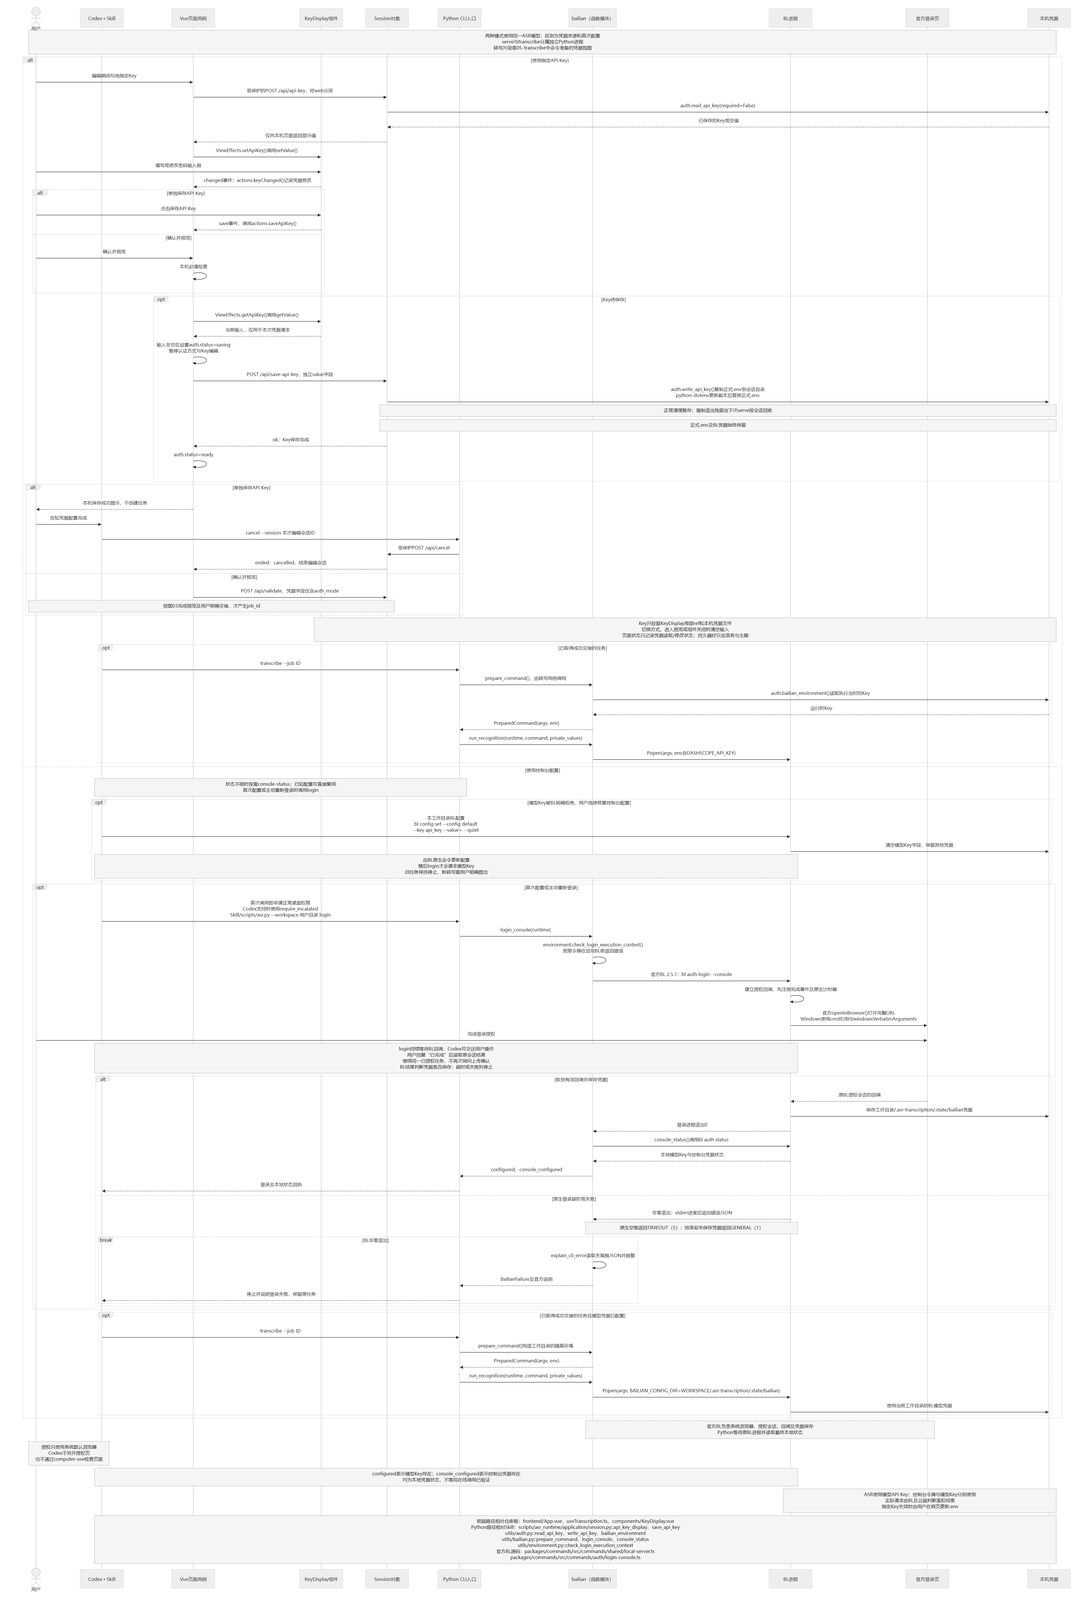
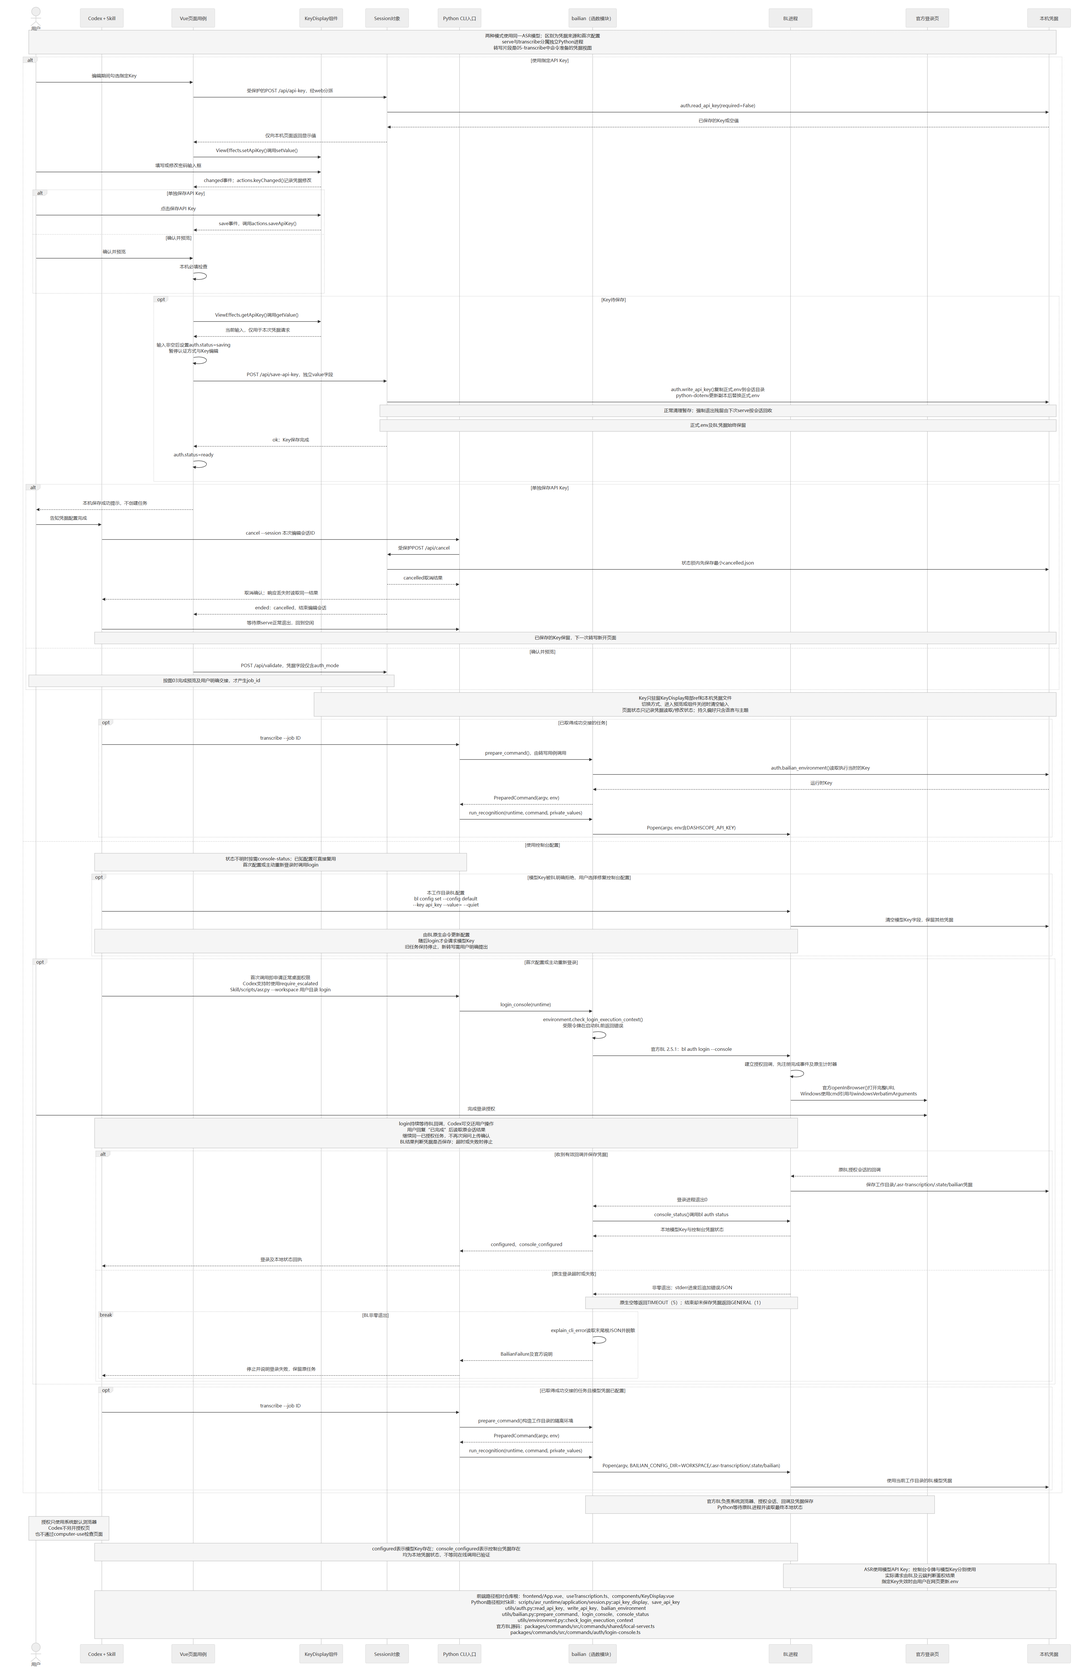
fix: finish editing before cancellation or skill updates

diff --git a/tests/test_browser.ts b/tests/test_browser.ts
@@ -669,7 +669,8 @@ for (const audioName of ["附件 recording.wav", "missing.wav"]) {
       else assert.equal(await page.locator(".audio-name").innerText(), audioName);
       const select = page.locator("#audio_id").getByRole("button", { name: initial.audio ? "Replace recording" : "Choose a recording", exact: true });
       await select.click();
-      await page.locator("#audio_id .el-tag--success").waitFor();
+      // 更换录音时旧的选中标记仍可见，等待新文件名实际显示。
+      await page.locator(".audio-name").filter({ hasText: /^sample\.wav$/ }).waitFor();
       assert.equal(await page.locator(".audio-name").innerText(), "sample.wav");
       assert.equal(await page.locator("#audio_id .field-error").count(), 0);
       assert.equal(paths.filter(route => route === "/api/select-audio").length, 1);

diff --git a/skills/asr-transcription/scripts/asr_runtime/web.py b/skills/asr-transcription/scripts/asr_runtime/web.py
@@ -18,7 +18,7 @@ from urllib.parse import unquote, urlsplit
 from .utils.environment import Runtime, SetupError
 from .utils.hotwords import hotwords_template
 from .utils.i18n import language_scope, localize
-from .utils.session_files import read_connection, read_receipt, write_connection
+from .utils.session_files import read_connection, read_terminal, write_connection
 from .application.recovery import CleanupReport, finish_session, recover_workspace
 from .application.session import Session
 from .application.rules import ValidationError
@@ -270,36 +270,35 @@ def serve(runtime: Runtime, *, port: int = 0, open_browser: bool = True, audio: 
 
 def control_session(runtime: Runtime, session_id: str, action: Literal["confirm", "cancel"]) -> Mapping[str, object]:
     """按明确编辑会话编号请求交接或取消，并恢复已经持久保存的回执。"""
-    receipt = read_receipt(runtime, session_id)
-    if receipt is not None:
-        if action == "confirm":
-            return receipt
-        return {"state": "handed_off", "receipt": receipt}
-    connection = None
-    try:
-        connection_info = read_connection(runtime, session_id)
-        origin = f"http://127.0.0.1:{connection_info['port']}"
-        connection = http.client.HTTPConnection("127.0.0.1", connection_info["port"], timeout=15)
-        connection.request("POST", f"/api/{action}", body=b"{}", headers={
-            "Origin": origin, "Content-Type": "application/json", "X-ASR-Token": connection_info["token"],
-        })
-        response = connection.getresponse()
-        payload = json.loads(response.read().decode("utf-8"))
-        if response.status != 200 or not isinstance(payload, dict):
-            localized = payload.get("error") if isinstance(payload, dict) else None
-            message = localized.get("zh") if isinstance(localized, dict) else None
-            raise SetupError(message or "会话操作未完成，请检查当前配置页面。")
-        return payload
-    except (SetupError, OSError, http.client.HTTPException, ValueError) as exc:
-        # 交接已保存但HTTP响应丢失时，读取同一会话的回执即可恢复。
-        receipt = read_receipt(runtime, session_id)
-        if receipt is not None:
-            if action == "confirm":
-                return receipt
-            return {"state": "handed_off", "receipt": receipt}
-        if isinstance(exc, SetupError):
-            raise
-        raise SetupError("无法取得会话操作结果。请检查网页服务；重试确认时使用同一会话编号。") from exc
-    finally:
-        if connection is not None:
-            connection.close()
+    terminal = read_terminal(runtime, session_id)
+    if terminal is None:
+        connection = None
+        try:
+            connection_info = read_connection(runtime, session_id)
+            origin = f"http://127.0.0.1:{connection_info['port']}"
+            connection = http.client.HTTPConnection("127.0.0.1", connection_info["port"], timeout=15)
+            connection.request("POST", f"/api/{action}", body=b"{}", headers={
+                "Origin": origin, "Content-Type": "application/json", "X-ASR-Token": connection_info["token"],
+            })
+            response = connection.getresponse()
+            payload = json.loads(response.read().decode("utf-8"))
+            if response.status != 200 or not isinstance(payload, dict):
+                localized = payload.get("error") if isinstance(payload, dict) else None
+                message = localized.get("zh") if isinstance(localized, dict) else None
+                raise SetupError(message or "会话操作未完成，请检查当前配置页面。")
+            return payload
+        except (SetupError, OSError, http.client.HTTPException, ValueError) as exc:
+            # 已处理请求的HTTP响应可能丢失；只读取原结果，不重新发送操作。
+            terminal = read_terminal(runtime, session_id)
+            if terminal is None:
+                if isinstance(exc, SetupError):
+                    raise
+                raise SetupError("无法取得会话操作结果。请检查网页服务与同一会话的记录。") from exc
+        finally:
+            if connection is not None:
+                connection.close()
+    if action == "cancel":
+        return terminal
+    if terminal["receipt"] is not None:
+        return terminal["receipt"]
+    raise SetupError("此编辑会话已取消，请重新打开配置页。")

diff --git a/tests/test_session_control.py b/tests/test_session_control.py
@@ -9,6 +9,7 @@ from pathlib import Path
 from unittest.mock import patch
 
 from asr_runtime.__main__ import main
+from asr_runtime.application.recovery import recover_workspace
 from asr_runtime.application.session import Session
 from asr_runtime.utils.environment import SetupError
 from asr_runtime.utils.session_files import read_receipt, session_directory
@@ -117,13 +118,60 @@ class SessionControlTests(WebFixture):
         self.assertTrue(key.exists())
 
     def test_cancel_sends_terminal_event_without_creating_a_job(self):
-        """验证显式取消结束编辑服务并清理会话暂存。"""
+        """验证取消结束服务、清理连接，并保留可重复读取的取消结果。"""
+        self.ready()
         stream = self.event_stream()
         result = control_session(self.runtime, self.session.session_id, "cancel")
         self.assertEqual(result, {"state": "cancelled", "receipt": None})
         self.assertEqual(self.terminal_event(stream), result)
         self.thread.join(timeout=5)
+        self.assertFalse(self.thread.is_alive())
+        with patch("asr_runtime.web.http.client.HTTPConnection") as connect:
+            self.assertEqual(control_session(self.runtime, self.session.session_id, "cancel"), result)
+        connect.assert_not_called()
+        directory = session_directory(self.runtime, self.session.session_id)
+        self.assertEqual([path.name for path in directory.iterdir()], ["cancelled.json"])
+        self.assertEqual(json.loads((directory / "cancelled.json").read_text(encoding="utf-8")), result)
+        self.assertEqual(recover_workspace(self.runtime)["warnings"], [])
+        self.assertEqual(control_session(self.runtime, self.session.session_id, "cancel"), result)
         self.assertTrue(self.audio.exists())
+        self.assertFalse(self.runtime.path(".state/jobs").exists())
+
+    def test_cancelled_preview_cannot_be_handed_off_after_service_exit(self):
+        """验证取消后的旧预览不能创建任务，也不会重新连接旧服务。"""
+        self.ready()
+        control_session(self.runtime, self.session.session_id, "cancel")
+        self.thread.join(timeout=5)
+        with patch("asr_runtime.web.http.client.HTTPConnection") as connect:
+            with self.assertRaisesRegex(SetupError, "已取消"):
+                control_session(self.runtime, self.session.session_id, "confirm")
+        connect.assert_not_called()
+        self.assertFalse(self.runtime.path(".state/jobs").exists())
+
+    def test_cancel_after_handoff_reports_original_job(self):
+        """验证已交接会话返回原任务，取消命令不会伪报撤回成功。"""
+        self.ready()
+        receipt = control_session(self.runtime, self.session.session_id, "confirm")
+        self.thread.join(timeout=5)
+        self.assertEqual(control_session(self.runtime, self.session.session_id, "cancel"),
+                         {"state": "handed_off", "receipt": receipt})
+        self.assertFalse((session_directory(self.runtime, self.session.session_id) / "cancelled.json").exists())
+
+    def test_stopped_service_alone_is_not_a_cancellation_receipt(self):
+        """验证没有取消记录的旧服务停止后，入口如实报告无法核实。"""
+        self.server.shutdown()
+        self.thread.join(timeout=5)
+        with self.assertRaisesRegex(SetupError, "连接信息不可用"):
+            control_session(self.runtime, self.session.session_id, "cancel")
+
+    def test_lost_cancel_response_recovers_the_same_result(self):
+        """验证取消已经生效但HTTP响应中断时仍能取得同一结果。"""
+        with patch("asr_runtime.web.http.client.HTTPConnection.getresponse", side_effect=http.client.RemoteDisconnected), \
+             patch("asr_runtime.web.http.client.HTTPConnection.request") as request:
+            request.side_effect = lambda *args, **kwargs: self.session.cancel()
+            result = control_session(self.runtime, self.session.session_id, "cancel")
+        self.assertEqual(result, {"state": "cancelled", "receipt": None})
+        self.assertEqual(request.call_count, 1)
         self.assertFalse(self.runtime.path(".state/jobs").exists())
 
     def test_lost_http_response_recovers_persisted_receipt(self):

diff --git a/tests/test_package.py b/tests/test_package.py
@@ -11,6 +11,8 @@ import sys
 from unittest.mock import patch
 from zipfile import ZipFile
 
+import update
+
 from scripts.build_zip import MANIFEST, UPDATE_LOCK, REPOSITORY_FILES, REQUIRED_FILES, SKILL_DIRECTORY, build_zip
 from asr_runtime.utils.environment import Runtime
 from tests.support import RuntimeTestCase, SKILL_ROOT
@@ -38,6 +40,38 @@ class PackageTests(RuntimeTestCase):
             self.assertIsNone(archive.testzip())
             archive.extractall(destination)
         return destination
+
+    def test_cancelled_page_releases_packaged_skill_for_update(self):
+        """验证实际发行页面取消并退出后，更新器取得同一安装的独占使用权。"""
+        installed = self.extract()
+        command = [sys.executable, "-B", "-X", "utf8", str(installed / "scripts/asr.py"),
+                   "--workspace", str(self.runtime.workspace)]
+        process = subprocess.Popen(command + ["serve", "--no-browser"], stdout=subprocess.PIPE,
+                                   stderr=subprocess.PIPE, text=True, encoding="utf-8")
+        try:
+            assert process.stdout is not None
+            listening = json.loads(process.stdout.readline())
+            self.assertEqual(listening["event"], "listening")
+            with patch.object(update, "_download") as download:
+                self.assertEqual(update.update_skill(installed, check_now=True)["status"], "deferred")
+            download.assert_not_called()
+            cancelled = subprocess.run(command + ["cancel", "--session", listening["session_id"]],
+                                       capture_output=True, text=True, encoding="utf-8", timeout=15)
+            self.assertEqual(cancelled.returncode, 0, cancelled.stderr)
+            self.assertEqual(json.loads(cancelled.stdout), {"state": "cancelled", "receipt": None})
+            _, errors = process.communicate(timeout=15)
+            self.assertEqual(process.returncode, 0, errors)
+            version = json.loads((installed / "skill-manifest.json").read_bytes())["version"]
+            release = json.dumps({"tag_name": "v" + version, "draft": False, "prerelease": False,
+                                  "assets": []}).encode("utf-8")
+            with patch.object(update, "_download", return_value=release) as download:
+                self.assertEqual(update.update_skill(installed, check_now=True)["status"], "latest")
+            download.assert_called_once_with(update.LATEST_URL)
+            self.assertFalse(self.runtime.path(".state/jobs").exists())
+        finally:
+            if process.poll() is None:
+                process.kill()
+                process.communicate(timeout=15)
 
     def test_release_contains_runtime_and_current_repository_readmes(self):
         """验证运行资源和最新版仓库说明入包，开发文件与私有数据排除。"""

diff --git a/skills/asr-transcription/scripts/asr_runtime/application/recovery.py b/skills/asr-transcription/scripts/asr_runtime/application/recovery.py
@@ -11,7 +11,7 @@ from ..utils.job_files import document_directory, job_directory, read_config
 from ..utils.session_files import read_connection, read_receipt, session_directory
 
 IDENTIFIER = re.compile(r"[0-9a-f]{32}")
-JSON_TEMP = re.compile(r"(?:connection|receipt|status)\.json\.pid-(\d+)-[a-z0-9_]+\.tmp")
+JSON_TEMP = re.compile(r"(?:connection|receipt|cancelled|status)\.json\.pid-(\d+)-[a-z0-9_]+\.tmp")
 DOCUMENT_TEMP = re.compile(r"transcription\.partial-pid-(\d+)-[a-z0-9_]+\.(?:xlsx|docx|md)")
 PYTHON_TEMP = re.compile(r"python-(\d+)-[a-z0-9_]+")
 
@@ -53,7 +53,7 @@ def _remove_empty(directory: Path) -> None:
 
 
 def finish_session(runtime: Runtime, session_id: str) -> CleanupReport:
-    """在服务及请求结束后清理会话暂存，保留已交接回执。"""
+    """在服务及请求结束后清理会话暂存，保留交接或取消结果。"""
     report: CleanupReport = {"removed_items": 0, "warnings": []}
     try:
         directory = session_directory(runtime, session_id)
@@ -72,7 +72,7 @@ def finish_session(runtime: Runtime, session_id: str) -> CleanupReport:
                 _remove_empty(candidate)
 
         for path in entries:
-            if path.name in ("connection.json", "receipt.json"):
+            if path.name in ("connection.json", "receipt.json", "cancelled.json"):
                 continue
             if path.name == ".env" or re.fullmatch(r"\.tmp_[a-z0-9_]+", path.name) or JSON_TEMP.fullmatch(path.name):
                 _remove_file(path, report)
@@ -140,7 +140,7 @@ def recover_workspace(runtime: Runtime, *, now: float | None = None) -> CleanupR
         try:
             _clean_pid_files(directory, JSON_TEMP, report)
             if not (directory / "connection.json").exists():
-                if any(path.name != "receipt.json" for path in _entries(directory)):
+                if any(path.name not in ("receipt.json", "cancelled.json") for path in _entries(directory)):
                     report["warnings"].append(f"会话 {directory.name} 缺少清理依据，已保留未知文件。")
                 _remove_empty(directory)
                 continue

diff --git a/skills/asr-transcription/scripts/asr_runtime/utils/session_files.py b/skills/asr-transcription/scripts/asr_runtime/utils/session_files.py
@@ -1,4 +1,4 @@
-"""保存本机编辑会话的连接信息与持久交接回执。"""
+"""保存本机编辑会话的连接信息、交接回执与取消结果。"""
 
 import json
 import math
@@ -7,7 +7,7 @@ import re
 from pathlib import Path
 from typing import TypedDict, cast
 
-from ..models import ConfirmationReceipt
+from ..models import ConfirmationReceipt, SessionTerminal
 from .environment import Runtime, SetupError
 from .files import write_json_atomic
 from .job_files import job_directory
@@ -80,3 +80,26 @@ def read_receipt(runtime: Runtime, session_id: str, *, require_committed: bool =
         return None
     except (OSError, ValueError) as exc:
         raise SetupError("无法读取会话交接回执，请检查工作目录中的会话记录。") from exc
+
+
+def write_cancellation(runtime: Runtime, session_id: str) -> None:
+    """保存本次编辑取消结果，供服务结束后核实。"""
+    directory = session_directory(runtime, session_id)
+    directory.mkdir(parents=True, exist_ok=True)
+    write_json_atomic(directory / "cancelled.json", {"state": "cancelled", "receipt": None})
+
+
+def read_terminal(runtime: Runtime, session_id: str) -> SessionTerminal | None:
+    """读取已经持久保存的交接或取消结果。"""
+    receipt = read_receipt(runtime, session_id)
+    if receipt is not None:
+        return {"state": "handed_off", "receipt": receipt}
+    try:
+        value = json.loads((session_directory(runtime, session_id) / "cancelled.json").read_text(encoding="utf-8"))
+        if value != {"state": "cancelled", "receipt": None}:
+            raise ValueError("invalid cancellation")
+        return {"state": "cancelled", "receipt": None}
+    except FileNotFoundError:
+        return None
+    except (OSError, ValueError) as exc:
+        raise SetupError("无法读取会话取消结果，请检查工作目录中的会话记录。") from exc

diff --git a/skills/asr-transcription/scripts/asr_runtime/application/session.py b/skills/asr-transcription/scripts/asr_runtime/application/session.py
@@ -25,7 +25,7 @@ from ..utils.files import FileError, check_file_unchanged, resolve_input
 from ..utils.hotwords import MAX_XLSX_BYTES
 from ..utils.i18n import localize
 from ..utils.job_files import job_directory, publish_config, result_path
-from ..utils.session_files import session_directory, write_receipt
+from ..utils.session_files import session_directory, write_cancellation, write_receipt
 from .inputs import import_hotwords, validate_audio
 from .rules import (
     AUDIO_SUFFIXES, ValidationError, validate_context, validate_hotword_rows, LANGUAGE_CODES, validate_options,
@@ -149,6 +149,7 @@ class Session:
             self._expire_if_due()
             if self._terminal:
                 return deepcopy(self._terminal)
+            write_cancellation(self.runtime, self.session_id)
             return deepcopy(self._finish("cancelled"))
 
     def _require_import_complete(self) -> None:

diff --git a/tests/test_initial_audio.py b/tests/test_initial_audio.py
@@ -146,6 +146,13 @@ class InitialAudioTests(WebFixture):
             self.assertFalse(self.runtime.path(".state/jobs").exists())
             self.assertEqual(control_session(self.runtime, receipt["session_id"], "cancel")["state"], "cancelled")
             self.assertEqual(process.wait(timeout=15), 0)
+            repeated = subprocess.run(
+                [sys.executable, "-B", "-X", "utf8", str(SKILL_ROOT / "scripts/asr.py"),
+                 "--workspace", str(self.runtime.workspace), "cancel", "--session", receipt["session_id"]],
+                capture_output=True, text=True, encoding="utf-8", timeout=15,
+            )
+            self.assertEqual(repeated.returncode, 0, repeated.stderr)
+            self.assertEqual(json.loads(repeated.stdout), {"state": "cancelled", "receipt": None})
         finally:
             if process.poll() is None:
                 if receipt:

diff --git a/skills/asr-transcription/scripts/asr_runtime/__main__.py b/skills/asr-transcription/scripts/asr_runtime/__main__.py
@@ -33,7 +33,7 @@ def main(argv: list[str] | None = None) -> int:
     serve_parser.add_argument("--audio", type=Path, help="带入网页的录音绝对路径，可在页面更换")
     for name in ("confirm", "cancel"):
         command = commands.add_parser(name)
-        command.add_argument("--session", required=True, help="用户从预览页复制到对话中的编辑会话编号（session_id）")
+        command.add_argument("--session", required=True, help="本次编辑会话编号（session_id）；交接使用用户从预览页复制的编号")
     for name in ("transcribe", "export", "job-status"):
         command = commands.add_parser(name)
         command.add_argument("--job", required=True, help="编辑会话交接回执中的转写任务编号（job_id）")

diff --git a/AGENTS.en.md b/AGENTS.en.md
@@ -55,6 +55,7 @@ After upgrading, use bootstrap --cleanup-old-cache to remove obsolete wheel/npm 
 - After review, the user selects “Copy for Codex” and sends the confirmation message containing the editing session ID. The Skill takes the target ID only from the current user's message. A bare “continue” prompts the user to use that button; startup receipts, history, and file times must not choose a session for them.
 - `confirm --session ID` checks expiry, preview version, and audio size/mtime under the Session lock. It checks the complete Windows command using the actual transcription job ID (`job_id`) and paths before publishing authorized configuration, its digest, and the handoff receipt. An oversized command leaves the preview editable through Return to editing and creates no task files or execution reservation. Repeated confirmation returns the same job. Configuration becomes immutable. Execution checks the full audio digest and uses the saved vocabulary rather than rereading Excel.
 - Handoff, cancellation, or expiry sends a one-way terminal event. The page shows a final message for the user to close. Service shutdown removes the connection token. Original input files are always preserved; cancellation or expiry removes session temporary records. A single timer and deadline checks share the state lock. The deadline does not affect handed-off jobs.
+- If the user cancels or requests an update while editing or previewing, run cancel with the ID from this active page's startup receipt, obtain the result, and wait for the original serve process to exit before finishing or updating. A later transcription opens a new session. Explicit cancellation atomically saves cancelled.json under the state lock before notifying the page; cleanup preserves this minimal result for recovery after a lost HTTP response. A handed-off session returns handed_off, which does not mean the job or cloud task was cancelled.
 - Normal shutdown marks Session closed and cancels the native selection dialog, waits for HTTP request threads, then calls `recovery.finish_session()` for disk cleanup. The next `serve` reclaims expired sessions whose original process has ended and owned temporary files carrying an ended PID. Keep handed-off inputs, execution reservations, results, and permanent credentials. Retain uncertain ownership or process state and report warnings. Browser-close events are not the cleanup authority.
 - Python library temporary files for `serve`, `transcribe`, and `export` use a process-specific workspace directory. API Key updates are staged in the session directory before replacing the permanent `.env`. See [DEVELOPMENT](doc/DEVELOPMENT.md#临时文件回收) for scope; do not sweep system Temp, installer caches, or old files without ownership metadata.
 - Hotword import removes the header and wholly blank rows while preserving invalid values. Display numbers follow current array order, separate from stable component row identity. Import only reads and fills the table. Hotwords and context are checked by the backend only when the user selects Confirm and preview, through `validate_hotword_rows` / `build_vocabulary` and `validate_context`.
